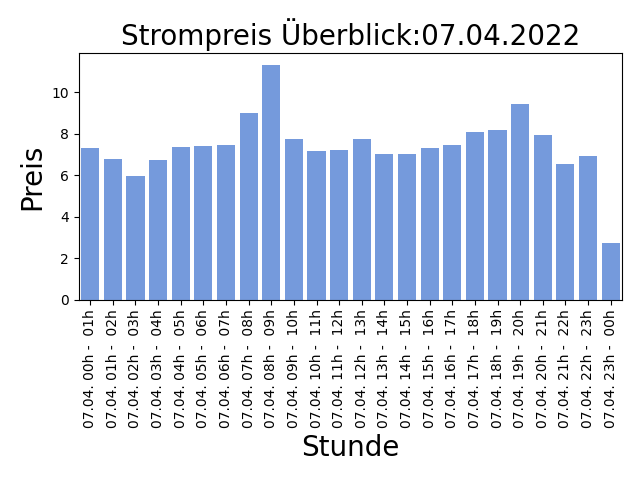
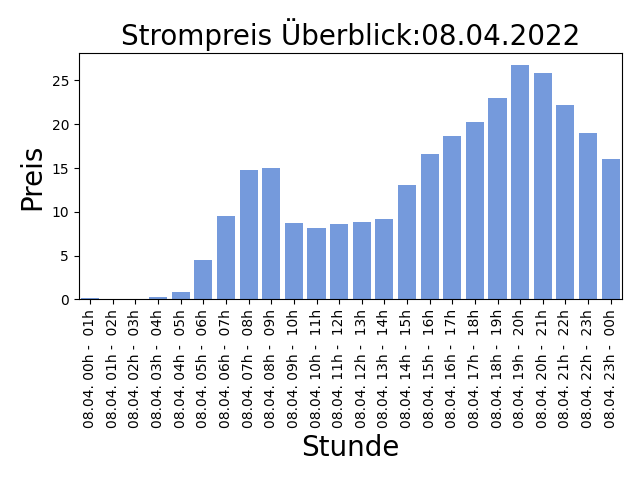
AUTOMATIC UPDATE PRICE LIST: 2022-04-07-14:30:05

diff --git a/README.md b/README.md
@@ -1,5 +1,5 @@
 
-## Strompreise für den 07.04.2022
+## Strompreise für den 08.04.2022
 
 Niedrige Preise deuten auf viel Sonnen und Windenergieerzeugung hin, ein hoher Anteil an erneuerbaren Energien bedeuted weniger CO2 Verbrauch!
 
@@ -7,31 +7,31 @@ Niedrige Preise deuten auf viel Sonnen und Windenergieerzeugung hin, ein hoher A
 
 | Stunde | Preis in Cent/kWh |
 |---|---|
-| 07.04. 00h -  01h | 7.302 | 
-| 07.04. 01h -  02h | 6.773999999999999 | 
-| 07.04. 02h -  03h | 5.964 | 
-| 07.04. 03h -  04h | 6.758 | 
-| 07.04. 04h -  05h | 7.358 | 
-| 07.04. 05h -  06h | 7.412999999999999 | 
-| 07.04. 06h -  07h | 7.45 | 
-| 07.04. 07h -  08h | 9.003 | 
-| 07.04. 08h -  09h | 11.323 | 
-| 07.04. 09h -  10h | 7.734999999999999 | 
-| 07.04. 10h -  11h | 7.1930000000000005 | 
-| 07.04. 11h -  12h | 7.194 | 
-| 07.04. 12h -  13h | 7.7379999999999995 | 
-| 07.04. 13h -  14h | 7.037999999999999 | 
-| 07.04. 14h -  15h | 7.015000000000001 | 
-| 07.04. 15h -  16h | 7.334999999999999 | 
-| 07.04. 16h -  17h | 7.481999999999999 | 
-| 07.04. 17h -  18h | 8.091 | 
-| 07.04. 18h -  19h | 8.206 | 
-| 07.04. 19h -  20h | 9.440999999999999 | 
-| 07.04. 20h -  21h | 7.956 | 
-| 07.04. 21h -  22h | 6.545 | 
-| 07.04. 22h -  23h | 6.919 | 
-| **07.04. 23h -  00h** | **2.7350000000000003** | 
+| 08.04. 00h -  01h | 0.202 | 
+| 08.04. 01h -  02h | 0.10300000000000001 | 
+| **08.04. 02h -  03h** | **0.10200000000000001** | 
+| 08.04. 03h -  04h | 0.24700000000000003 | 
+| 08.04. 04h -  05h | 0.858 | 
+| 08.04. 05h -  06h | 4.451 | 
+| 08.04. 06h -  07h | 9.537 | 
+| 08.04. 07h -  08h | 14.725999999999999 | 
+| 08.04. 08h -  09h | 15.0 | 
+| 08.04. 09h -  10h | 8.7 | 
+| 08.04. 10h -  11h | 8.184999999999999 | 
+| 08.04. 11h -  12h | 8.654 | 
+| 08.04. 12h -  13h | 8.818999999999999 | 
+| 08.04. 13h -  14h | 9.141 | 
+| 08.04. 14h -  15h | 13.077000000000002 | 
+| 08.04. 15h -  16h | 16.611 | 
+| 08.04. 16h -  17h | 18.611 | 
+| 08.04. 17h -  18h | 20.231 | 
+| 08.04. 18h -  19h | 22.990000000000002 | 
+| 08.04. 19h -  20h | 26.776999999999997 | 
+| 08.04. 20h -  21h | 25.904000000000003 | 
+| 08.04. 21h -  22h | 22.18 | 
+| 08.04. 22h -  23h | 18.98 | 
+| 08.04. 23h -  00h | 15.998 | 
 
 Preise der EPEX Spot ® Strombörse (neue Preise werden täglich um 14:00 veröffentlicht für den kompletten nächsten Tag).
 
-letzte Aktualisierung:06.04.2022 14:30
+letzte Aktualisierung:07.04.2022 14:30
